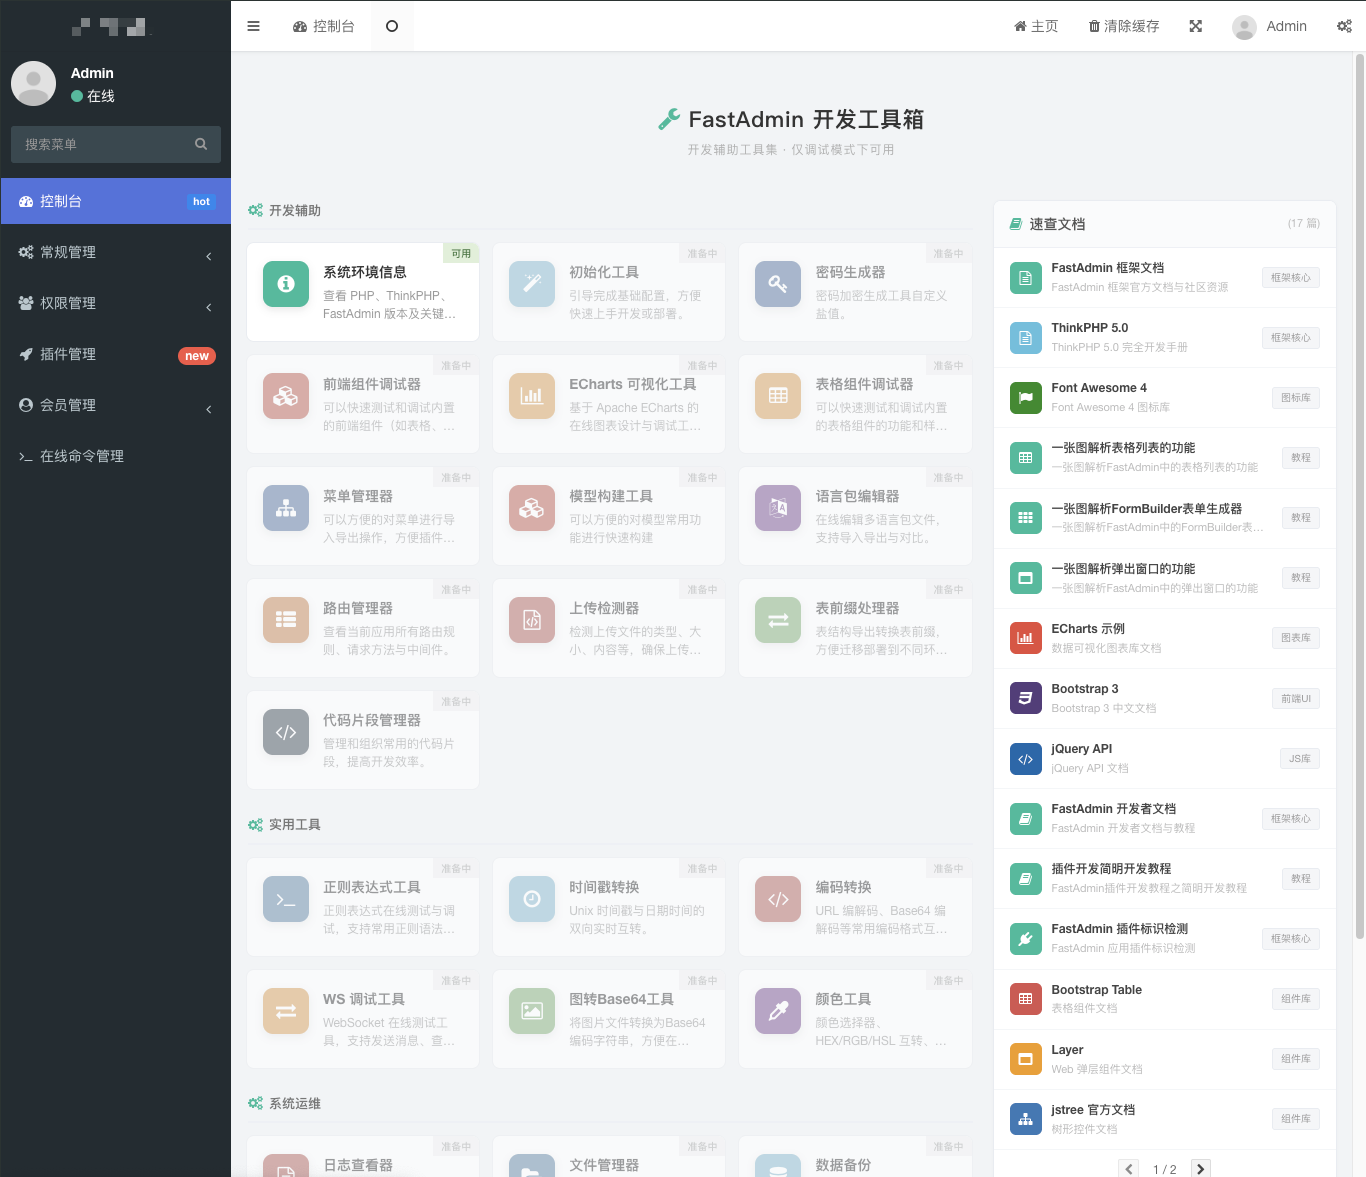
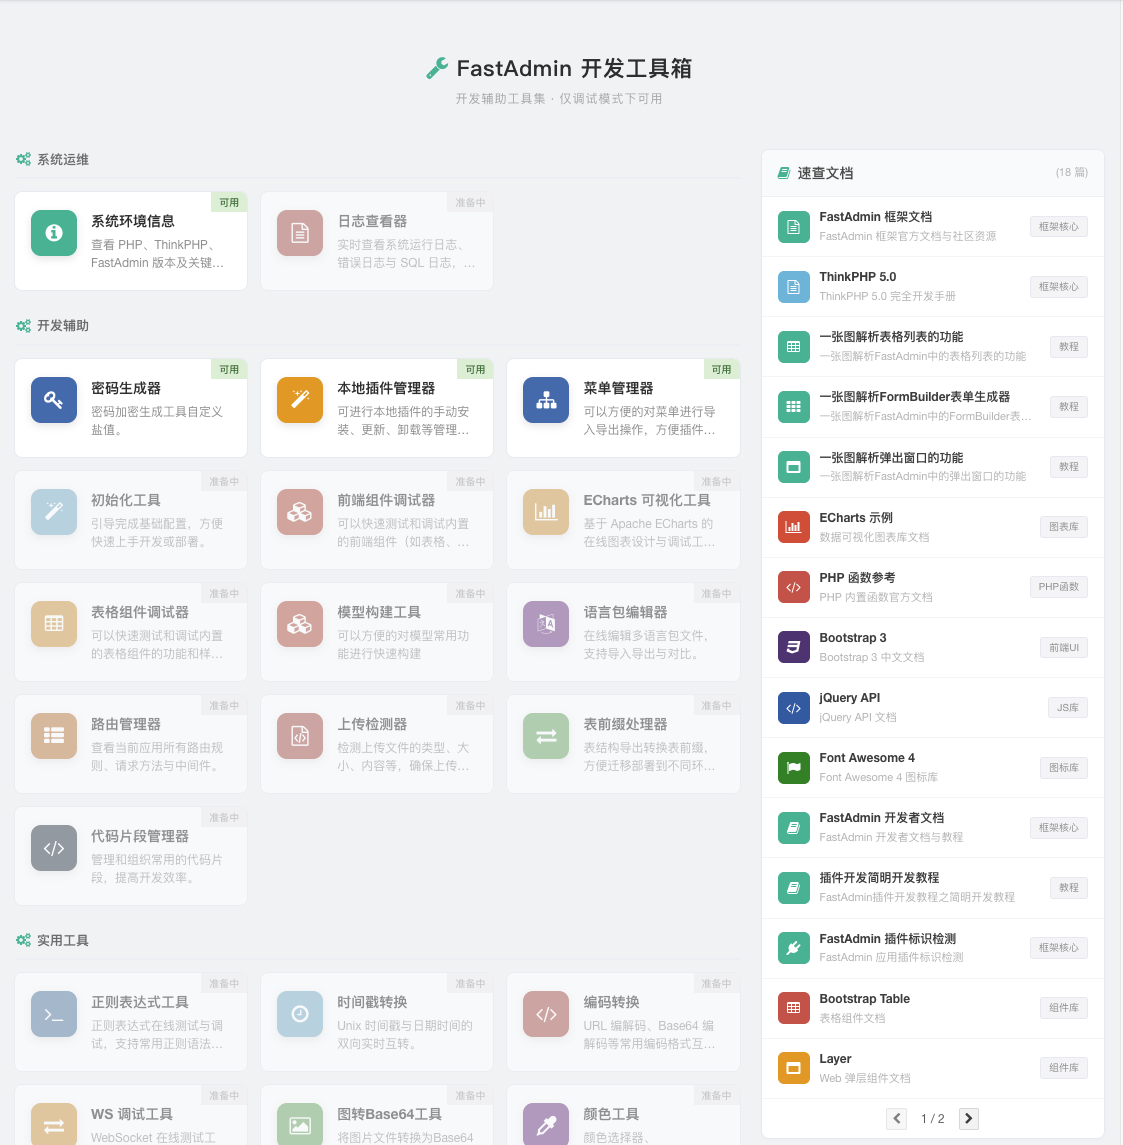
完善说明文档

diff --git a/README.md b/README.md
@@ -43,6 +43,10 @@
 
 ![密码生成器](assets/images/preview_password.png)
 
+![本地插件管理器](assets/images/preview_addons.png)
+
+![菜单代码管理器](assets/images/preview_rules.png)
+
 ## 交流 QQ 群
 
 群号：[9735629](https://qm.qq.com/q/VB9i1gS56a) （可点击链接加入）
